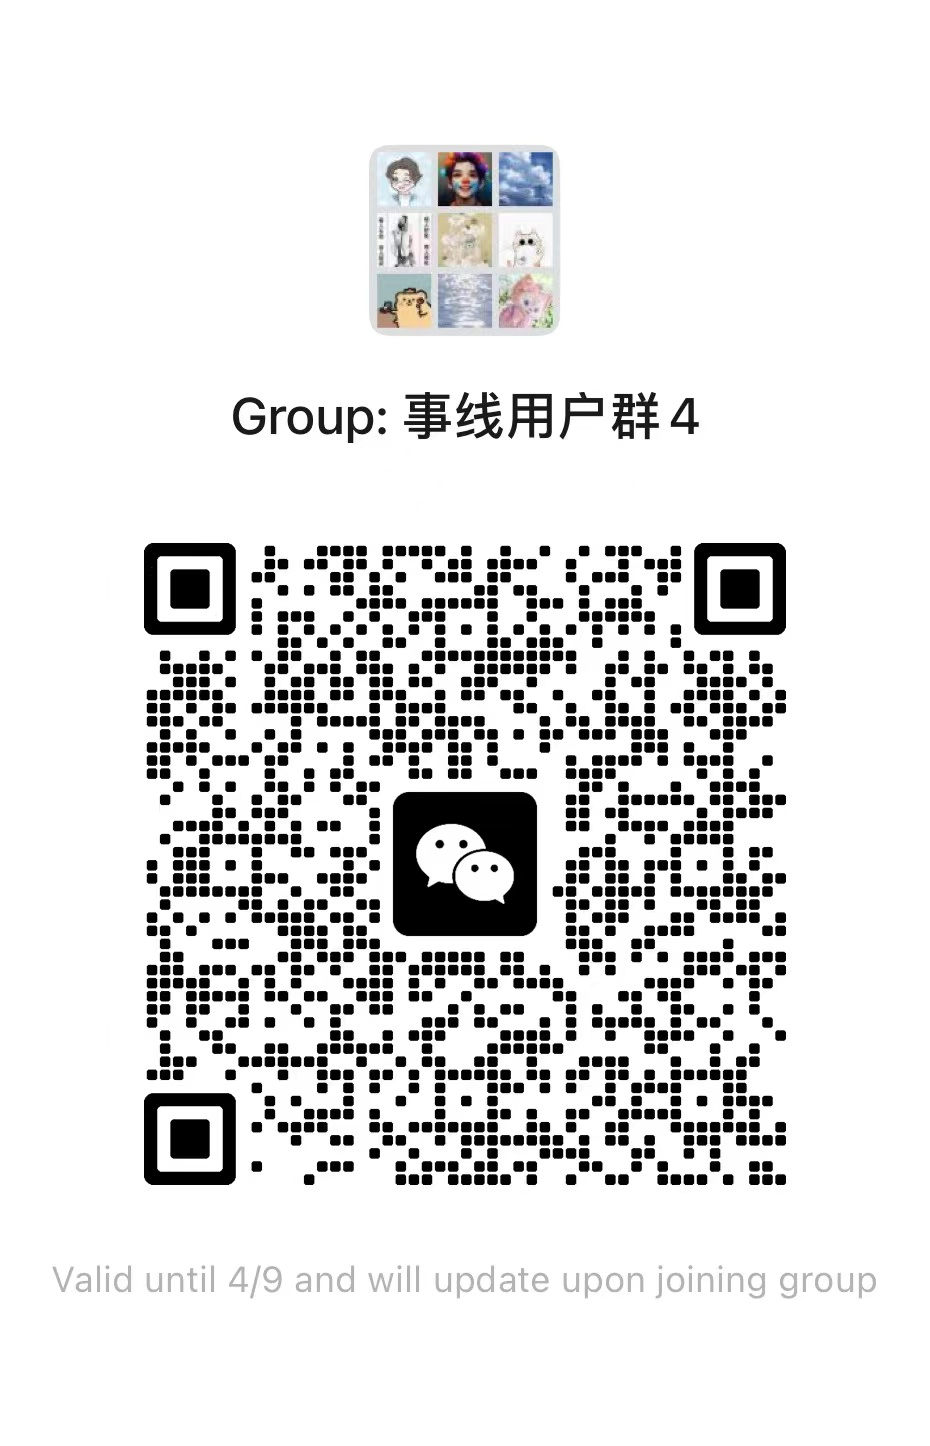
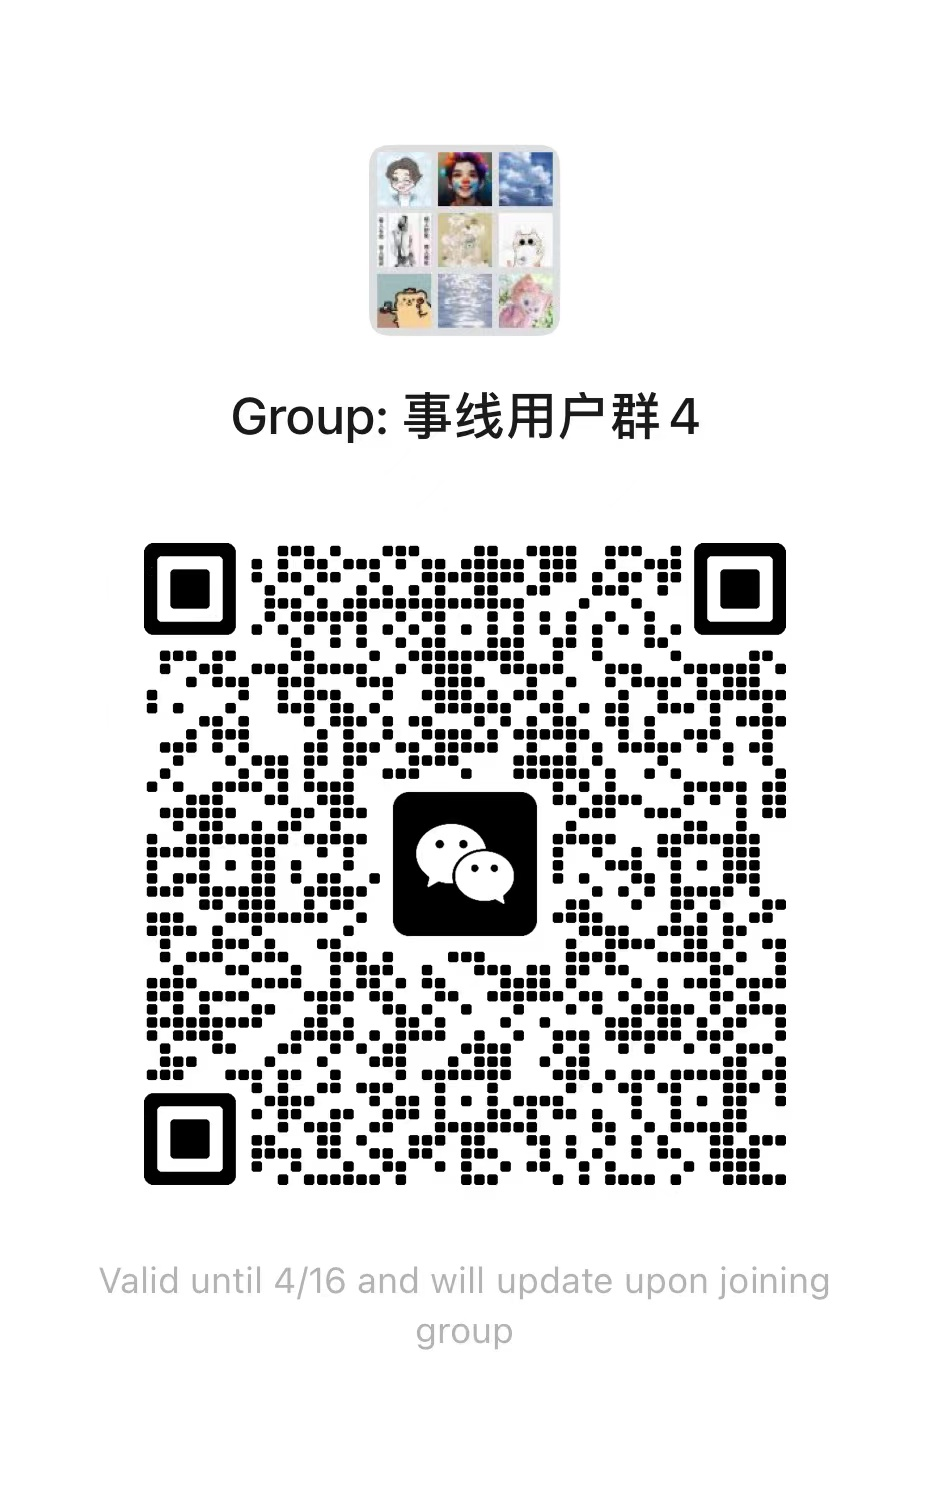
a

Changed region(s): [[0.0624, 0.3423, 0.9355, 0.9025], [0.2495, 0.0934, 0.7484, 0.3112]]

diff --git a/docs/01.pages/03.共建/002.用户群.md b/docs/01.pages/03.共建/002.用户群.md
@@ -9,7 +9,7 @@ permalink: /pages/16d8ae/
 
 <img src="/img/vx.jpg" class="no-zoom" style="width:15rem;margin: 10px;border-radius: 15px;margin: 2rem 0;box-shadow: 0 0px 20px rgb(0 0 0 / 20%);">
 
-#### （4月9日失效）
+#### （4月16日失效）
 
 
 :::
